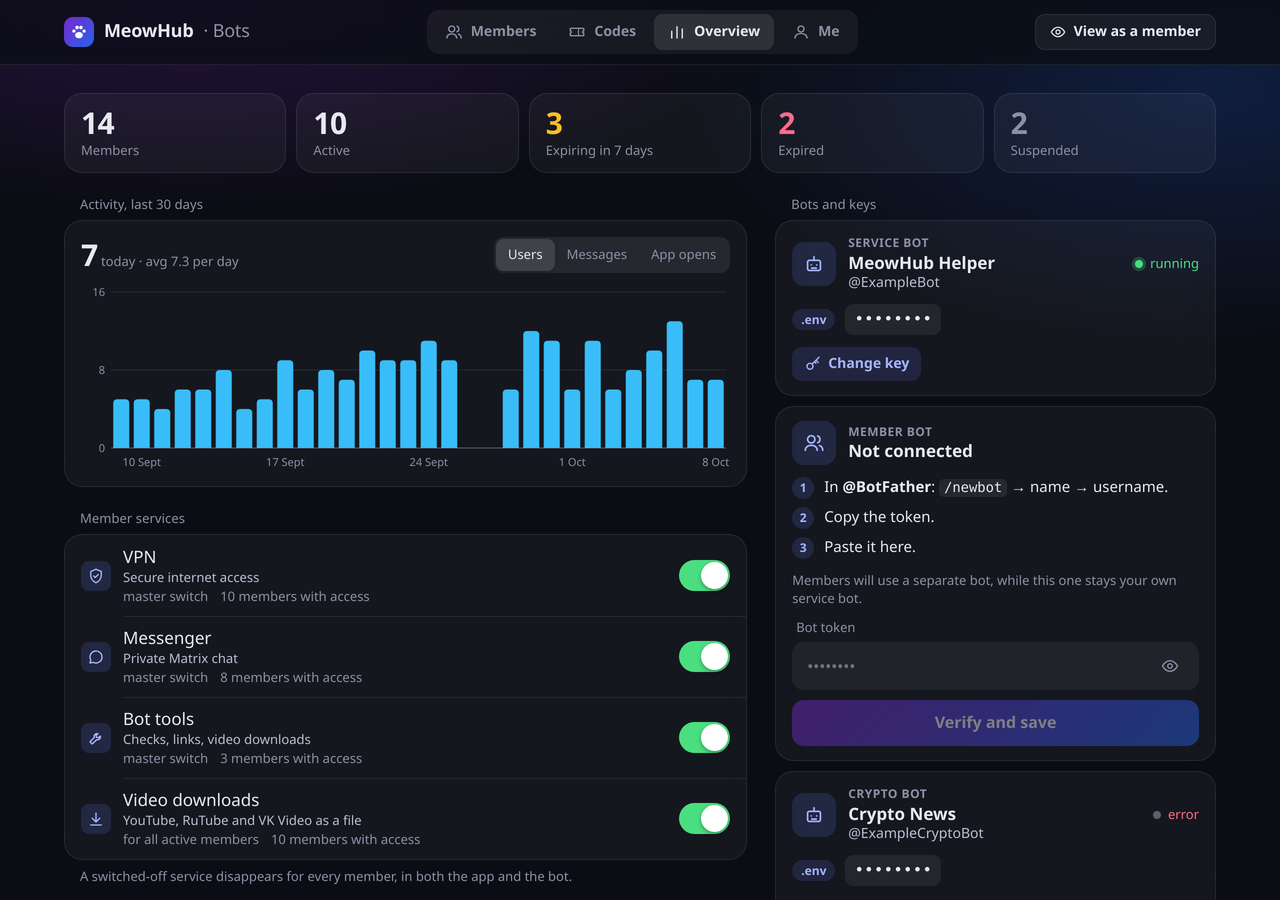
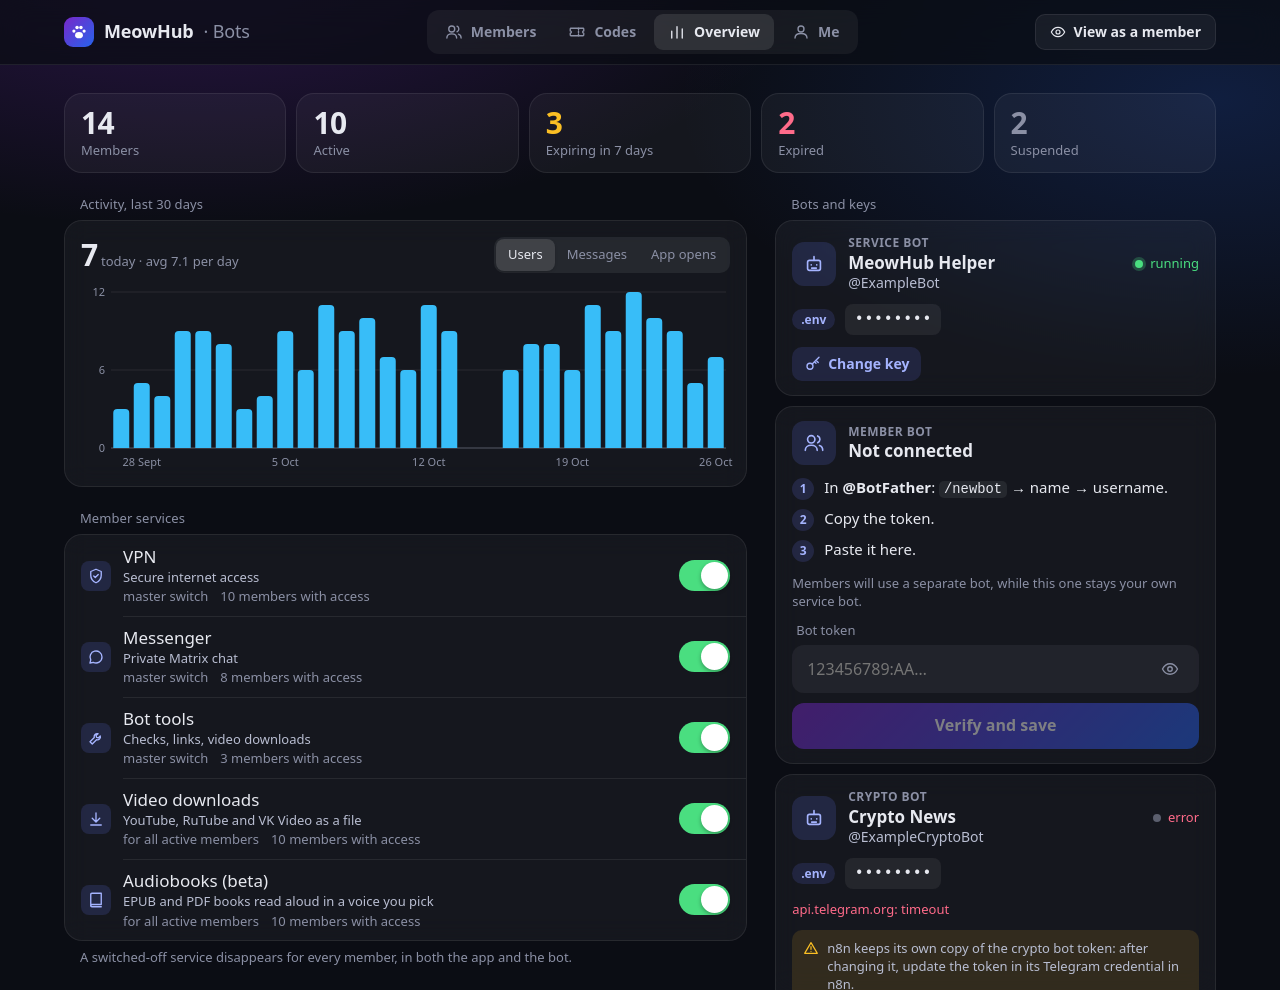
helper: Happ marked as the recommended VPN app; README and screenshots brought up to date
- VPN screen: Happ first, highlighted with a Recommended badge; its chip stands out in each
  config group; the bot's VPN card says why (all our protocols, one-tap subscription)
- README: audiobooks, admins, Home Assistant row, 131 settings, host safety in OPERATIONS
- docs/img: fresh Mini App (home, VPN, audiobooks) and Bots page from demo data, links masked

Claude-Session: https://claude.ai/code/session_01A7kpVjJ1mh32NbHHsLeieA

diff --git a/helper/webapp/src/screens/Vpn.jsx b/helper/webapp/src/screens/Vpn.jsx
@@ -1,7 +1,7 @@
 import { useEffect, useMemo, useRef, useState } from 'react'
 import qrcode from 'qrcode-generator'
 import Icon from '../icons.jsx'
-import { Cell, Dot, ErrorBox, Section, Skeleton, doCopy, Button, Empty } from '../ui.jsx'
+import { Cell, Dot, ErrorBox, Section, Skeleton, doCopy, Button, Empty, Pill } from '../ui.jsx'
 import { api } from '../api.js'
 import { getLang, t } from '../i18n.js'
 import { haptic, openLink, openTelegramLink, saveFile } from '../tg.js'
@@ -111,6 +111,9 @@ function LinkCell({ l, i }) {
   )
 }
 
+// The app we point people to first (the server marks it `recommended` too).
+const REC_APP = 'Happ'
+
 // One config family = one set of apps that can use it.
 function Group({ g, defaultOpen }) {
   const [open, setOpen] = useState(defaultOpen)
@@ -120,7 +123,7 @@ function Group({ g, defaultOpen }) {
         <h3>{g.title}</h3>
         <Icon name="chevdown" size={16} className={'rot' + (open ? ' open' : '')} />
       </button>
-      {g.apps?.length > 0 && <div className="appchips">{g.apps.map((a) => <span key={a} className="appchip">{a}</span>)}</div>}
+      {g.apps?.length > 0 && <div className="appchips">{g.apps.map((a) => <span key={a} className={'appchip' + (a === REC_APP ? ' appchip--rec' : '')}>{a}</span>)}</div>}
       {open && (
         <>
           <div className="group">{g.links.map((l, i) => <LinkCell key={i} l={l} i={i} />)}</div>
@@ -178,10 +181,16 @@ export default function Vpn() {
             </Section>
 
             <Section title={t('vpn.add')} footer={t('vpn.add_foot')}>
-              {apps.map((a) => (
-                <Cell key={a.id} icon="external" title={a.name} sub={Array.isArray(a.platforms) ? a.platforms.join(' · ') : (a.platforms || '')} chevron
-                  onClick={() => { haptic.impact('light'); openLink(goUrl(a.go_url)) }} />
-              ))}
+              {[...apps].sort((a, b) => (b.recommended ? 1 : 0) - (a.recommended ? 1 : 0)).map((a) => {
+                const plat = Array.isArray(a.platforms) ? a.platforms.join(' · ') : (a.platforms || '')
+                return (
+                  <Cell key={a.id} icon={a.recommended ? 'star' : 'external'} tone={a.recommended ? 'ok' : undefined}
+                    className={a.recommended ? 'cell--rec' : ''} chevron
+                    title={a.name} sub={a.recommended ? <>{t('vpn.rec_why')}<br />{plat}</> : plat}
+                    right={a.recommended ? <Pill tone="ok">{t('vpn.recommended')}</Pill> : null}
+                    onClick={() => { haptic.impact('light'); openLink(goUrl(a.go_url)) }} />
+                )
+              })}
             </Section>
           </>
         )}

diff --git a/helper/webapp/src/i18n.js b/helper/webapp/src/i18n.js
@@ -112,6 +112,8 @@ export const ru = {
   'vpn.hide_qr': 'Скрыть QR',
   'vpn.qr_hint': 'Отсканируй из приложения на другом устройстве.',
   'vpn.add': 'Добавить в приложение',
+  'vpn.recommended': 'Рекомендуем',
+  'vpn.rec_why': 'Все наши протоколы, подписка в одно касание',
   'vpn.add_foot': 'Приложение откроется само и подтянет все серверы.',
   'vpn.configs': 'Отдельные конфиги',
   'vpn.configs_n': 'Отдельные конфиги ({n})',
@@ -630,6 +632,8 @@ export const en = {
   'vpn.hide_qr': 'Hide QR',
   'vpn.qr_hint': 'Scan it from the app on another device.',
   'vpn.add': 'Add to an app',
+  'vpn.recommended': 'Recommended',
+  'vpn.rec_why': 'All our protocols, one-tap subscription',
   'vpn.add_foot': 'The app opens and pulls in every server by itself.',
   'vpn.configs': 'Individual configs',
   'vpn.configs_n': 'Individual configs ({n})',

diff --git a/helper/webapp/src/icons.jsx b/helper/webapp/src/icons.jsx
@@ -46,6 +46,7 @@ const P = {
   music: ['M9 18V6l10-2v12', 'M9 18a2.5 2.5 0 1 1-5 0 2.5 2.5 0 0 1 5 0z', 'M19 16a2.5 2.5 0 1 1-5 0 2.5 2.5 0 0 1 5 0z'],
   clipboard: ['M9 4h6v3H9z', 'M8 5.5H6a1 1 0 0 0-1 1V20a1 1 0 0 0 1 1h12a1 1 0 0 0 1-1V6.5a1 1 0 0 0-1-1h-2'],
   sliders: ['M4 7h9M17 7h3M4 17h3M11 17h9', 'M15 7m-2 0a2 2 0 1 0 4 0 2 2 0 1 0-4 0', 'M9 17m-2 0a2 2 0 1 0 4 0 2 2 0 1 0-4 0'],
+  star: ['M12 3.5l2.6 5.3 5.9.9-4.25 4.1 1 5.8L12 16.9l-5.25 2.7 1-5.8L3.5 9.7l5.9-.9z'],
   book: ['M5 4.5A1.5 1.5 0 0 1 6.5 3H19v15H6.5A1.5 1.5 0 0 0 5 19.5z', 'M5 19.5A1.5 1.5 0 0 0 6.5 21H19'],
   mic: ['M9 6a3 3 0 0 1 6 0v5a3 3 0 0 1-6 0z', 'M5.5 11a6.5 6.5 0 0 0 13 0M12 17.5V21'],
   moon: ['M20 14.5A8 8 0 0 1 9.5 4a8 8 0 1 0 10.5 10.5z'],

diff --git a/helper/webapp/src/mock.js b/helper/webapp/src/mock.js
@@ -343,7 +343,7 @@ export async function handle(method, path, body) {
       ],
       traffic: { up: 1.2e9, down: 18.7e9 }, online: true,
       apps: [
-        { id: 'happ', name: 'Happ', platforms: ['iOS', 'Android', 'macOS'], go_url: go('happ') },
+        { id: 'happ', name: 'Happ', platforms: ['iOS', 'Android', 'macOS'], recommended: true, go_url: go('happ') },
         { id: 'hiddify', name: 'Hiddify', platforms: ['iOS', 'Android', 'Windows'], go_url: go('hiddify') },
         { id: 'v2raytun', name: 'v2RayTun', platforms: ['iOS', 'Android'], go_url: go('v2raytun') },
         { id: 'streisand', name: 'Streisand', platforms: ['iOS'], go_url: go('streisand') },

diff --git a/helper/webapp/src/styles.css b/helper/webapp/src/styles.css
@@ -529,6 +529,8 @@ html[data-mode='browser'] .keycard { backdrop-filter: blur(12px); }
 .vgrp { margin-bottom: 18px; }
 .vgrp .sec__h { margin-bottom: 4px; }
 .vgrp .sec__h h3 { font-size: 15px; font-weight: 600; color: var(--text); }
+.appchip--rec { color: var(--ok); background: color-mix(in srgb, var(--ok) 15%, transparent); font-weight: 600; }
+.cell--rec { background: color-mix(in srgb, var(--ok) 7%, transparent); }
 .appchips { display: flex; flex-wrap: wrap; gap: 6px; margin: 0 16px 8px; }
 .appchip {
   padding: 2px 9px; border-radius: 999px; font-size: 12px; font-weight: 500; color: var(--subtitle);

diff --git a/helper/app/webapp.py b/helper/app/webapp.py
@@ -67,6 +67,9 @@ VPN_APPS = [
      lambda s: "v2rayng://install-config?url=" + urllib.parse.quote(s, safe="")),
 ]
 APPS_BY_ID = {a[0]: a for a in VPN_APPS}
+# Shown first and marked "recommended": it handles every config family we hand out
+# (VLESS/Reality, XHTTP, Hysteria2, Shadowsocks) and imports the subscription in one tap.
+RECOMMENDED_APP = "happ"
 
 # Human texts live in i18n.T; these two are the Russian renderings, kept for callers that want a dict.
 RESULT_MESSAGES = {k: i18n.tr("ru", "result." + k) for k in
@@ -768,7 +771,7 @@ class App:
             online = email in set(xui.onlines())
         except Exception:
             online = False
-        apps = [{"id": a[0], "name": a[1], "platforms": a[2],
+        apps = [{"id": a[0], "name": a[1], "platforms": a[2], "recommended": a[0] == RECOMMENDED_APP,
                  "go_url": f"./go/{a[0]}?u={urllib.parse.quote(sub, safe='')}"} for a in VPN_APPS]
         if any(g["id"] == "awg" for g in groups):
             # AmneziaVPN takes only the AmneziaWG config, not the subscription: its entry

diff --git a/helper/tests/test_webapp.py b/helper/tests/test_webapp.py
@@ -372,6 +372,7 @@ class TestVpn(Base):
         self.assertTrue(d["online"])
         self.assertEqual([a["id"] for a in d["apps"]], ["happ", "v2raytun", "hiddify", "streisand", "v2rayng"])
         self.assertTrue(d["apps"][0]["go_url"].startswith("./go/happ?u=https%3A%2F%2Fexample.org"))
+        self.assertEqual([a["id"] for a in d["apps"] if a["recommended"]], ["happ"])
 
     def test_vpn_online(self):
         self.make_member(200)

diff --git a/README.md b/README.md
@@ -41,6 +41,7 @@ on hardware you control.
 | 🤖 | **Helper bot** — health alerts for you; invite-code memberships (VPN, Matrix, downloads) for your people, with a Telegram Mini App in Russian or English | Telegram |
 | 🛡 | **AmneziaWG** — obfuscated WireGuard VPN | optional |
 | 🚀 | **3x-ui** — VLESS/Reality, Hysteria2, Shadowsocks | optional |
+| 🏠 | **Home Assistant** — devices in another place, on a secret path, webhooks for ESP32s | optional |
 
 ## Quick start
 
@@ -137,7 +138,7 @@ The dashboard is responsive, so the hub works from a phone as well as a desk.
 
 ## Everything is in one file
 
-`.env` holds **128 settings**, each documented where it sits. Only two have no
+`.env` holds **131 settings**, each documented where it sits. Only two have no
 sensible default, because they can't:
 
 ```ini
@@ -269,14 +270,15 @@ at your IP — and again when it's fixed. It also lists the hub's links and hand
 **you, and only you**, the logins for your services, in a message that deletes
 itself after a minute.
 
-<img src="docs/img/miniapp.png" alt="The Telegram Mini App: a member's home card, the VPN page grouped by app, and the downloader" width="100%">
+<img src="docs/img/miniapp.png" alt="The Telegram Mini App: a member's home card, the VPN page with Happ marked as recommended, and the audiobooks beta" width="100%">
 
 It can also **let other people in**. You mint an access code; whoever redeems it
 becomes a member for 30 days (or as long as you choose) and gets, from a
 Wallet-style Telegram Mini App:
 
 - **VPN** — a personal, auto-updating subscription from your 3x-ui panel that
-  opens straight in Happ, Hiddify, v2RayTun, Streisand or v2rayNG, plus one
+  opens straight in **Happ** (marked as recommended: it takes every config family
+  in one tap), Hiddify, v2RayTun, Streisand or v2rayNG, plus one
   AmneziaWG peer each (one tap into AmneziaVPN on Android, a file elsewhere).
   Configs are grouped by the app they need, each with a one-line instruction.
   New inbounds reach every member by themselves.
@@ -285,6 +287,9 @@ Wallet-style Telegram Mini App:
   1080p or MP3/M4A/Opus, add subtitles or a clip range, and save the file from a
   signed link. Every user gets their own folder and quotas; files delete
   themselves after 30 minutes, so a busy server doesn't fill up.
+- **Audiobooks (beta)** — upload an EPUB or PDF, pick a voice, and the server reads
+  it aloud into an M4B with chapters, with a visible queue and an in-app player. It
+  fronts a separate [book2audio](docs/HELPER.md#audiobooks-beta) server and starts off.
 
 The bot reminds members 24 hours before their time runs out. When it does, the
 VPN client is switched off and the Matrix accounts are locked (rooms and history
@@ -300,7 +305,9 @@ or a switch in the app overrides it, for the bot and the app at once.
 The owner's **Bots** page (on the hub, and inside the app) shows members, codes,
 activity, downloads and every bot token — which you can swap from the page
 without touching `.env` — and has a "view as a member" preview. An optional
-second bot keeps your ops bot private while members talk to theirs.
+second bot keeps your ops bot private while members talk to theirs. You can make
+trusted people **admins** (`HELPER_ADMIN_IDS`): they get your controls but not your
+personal logins or the bot tokens, and alerts still come only to you.
 
 Setup is two lines in `.env` — `HELPER_BOT_TOKEN` and your Telegram id as
 `HELPER_OWNER_ID`; the VPN and Matrix halves of the memberships each need one
@@ -357,12 +364,12 @@ the main directory cannot recreate or destroy them, and vice versa.
 | | |
 |---|---|
 | 🚀 **[DEPLOY.md](docs/DEPLOY.md)** | First deployment — host prep, DNS, router ports, permissions, migrating an existing install |
-| 🔧 **[OPERATIONS.md](docs/OPERATIONS.md)** | Daily commands, backups, upgrade rules, and the failure modes worth knowing in advance |
+| 🔧 **[OPERATIONS.md](docs/OPERATIONS.md)** | Daily commands, backups, upgrade rules, host safety (reboot on a kernel crash, Docker waits for the data disk), and the failure modes worth knowing in advance |
 | 🛡 **[VPN.md](docs/VPN.md)** | Both VPN paths, obfuscation, handing out configs |
 | 📈 **[CRYPTO.md](docs/CRYPTO.md)** | Price and volatility alerts, news digest, "why did it move", Telegram setup |
 | 🌡 **[SENSOR.md](docs/SENSOR.md)** | The ESP32 room sensor — posting from another network, token, certificate check, importing old readings |
 | 🔁 **[N8N.md](docs/N8N.md)** | Automation, local models, the daily-summary and move-explainer workflows |
-| 🤖 **[HELPER.md](docs/HELPER.md)** | The Telegram bots and Mini App — health alerts, memberships and codes, VPN by app, downloader, Russian/English |
+| 🤖 **[HELPER.md](docs/HELPER.md)** | The Telegram bots and Mini App — health alerts, memberships and codes, admins, VPN by app, downloader, audiobooks, Russian/English |
 | 🏠 **[HOMEASSISTANT.md](docs/HOMEASSISTANT.md)** | Optional: Home Assistant for devices in another place, on a secret path (no subdomain), webhooks for ESP32s |
 | 🔒 **[SSH-GUARD.md](docs/SSH-GUARD.md)** | Optional: fail2ban for the host's SSH (root and made-up users banned at once), new-login alerts and a daily summary in Telegram |
 | 🎬 **[PLEX.md](docs/PLEX.md)** | Movies, series and anime through Nextcloud into Plex — naming, metadata, anime caveats |
